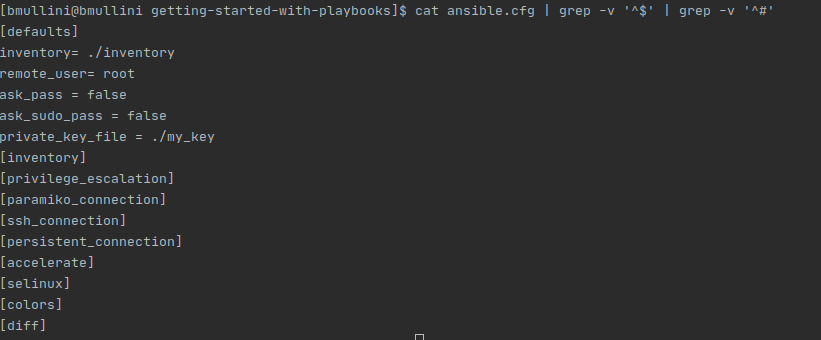
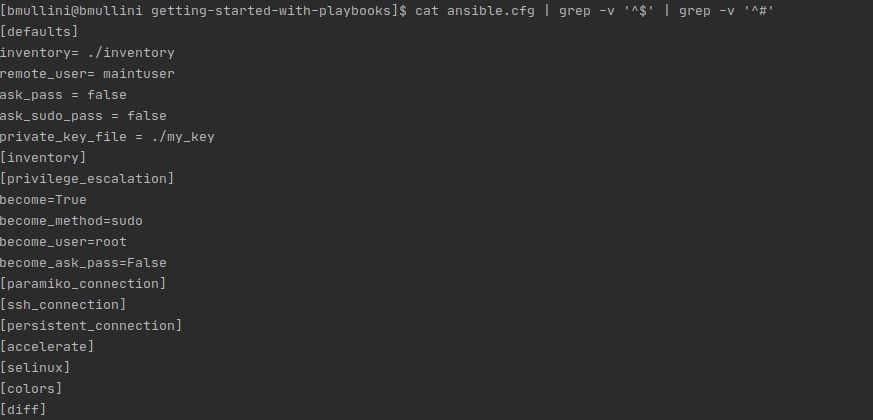
added content for new amazon ami

diff --git a/readme.md b/readme.md
@@ -91,7 +91,7 @@ we will be using the **all** group.
 
     ```
     inventory = ./inventory
-    remote_user = root
+    remote_user = maintuser
     ask_pass = false 
     ask_sudo_pass = false
     private_key_file = ./my-key
